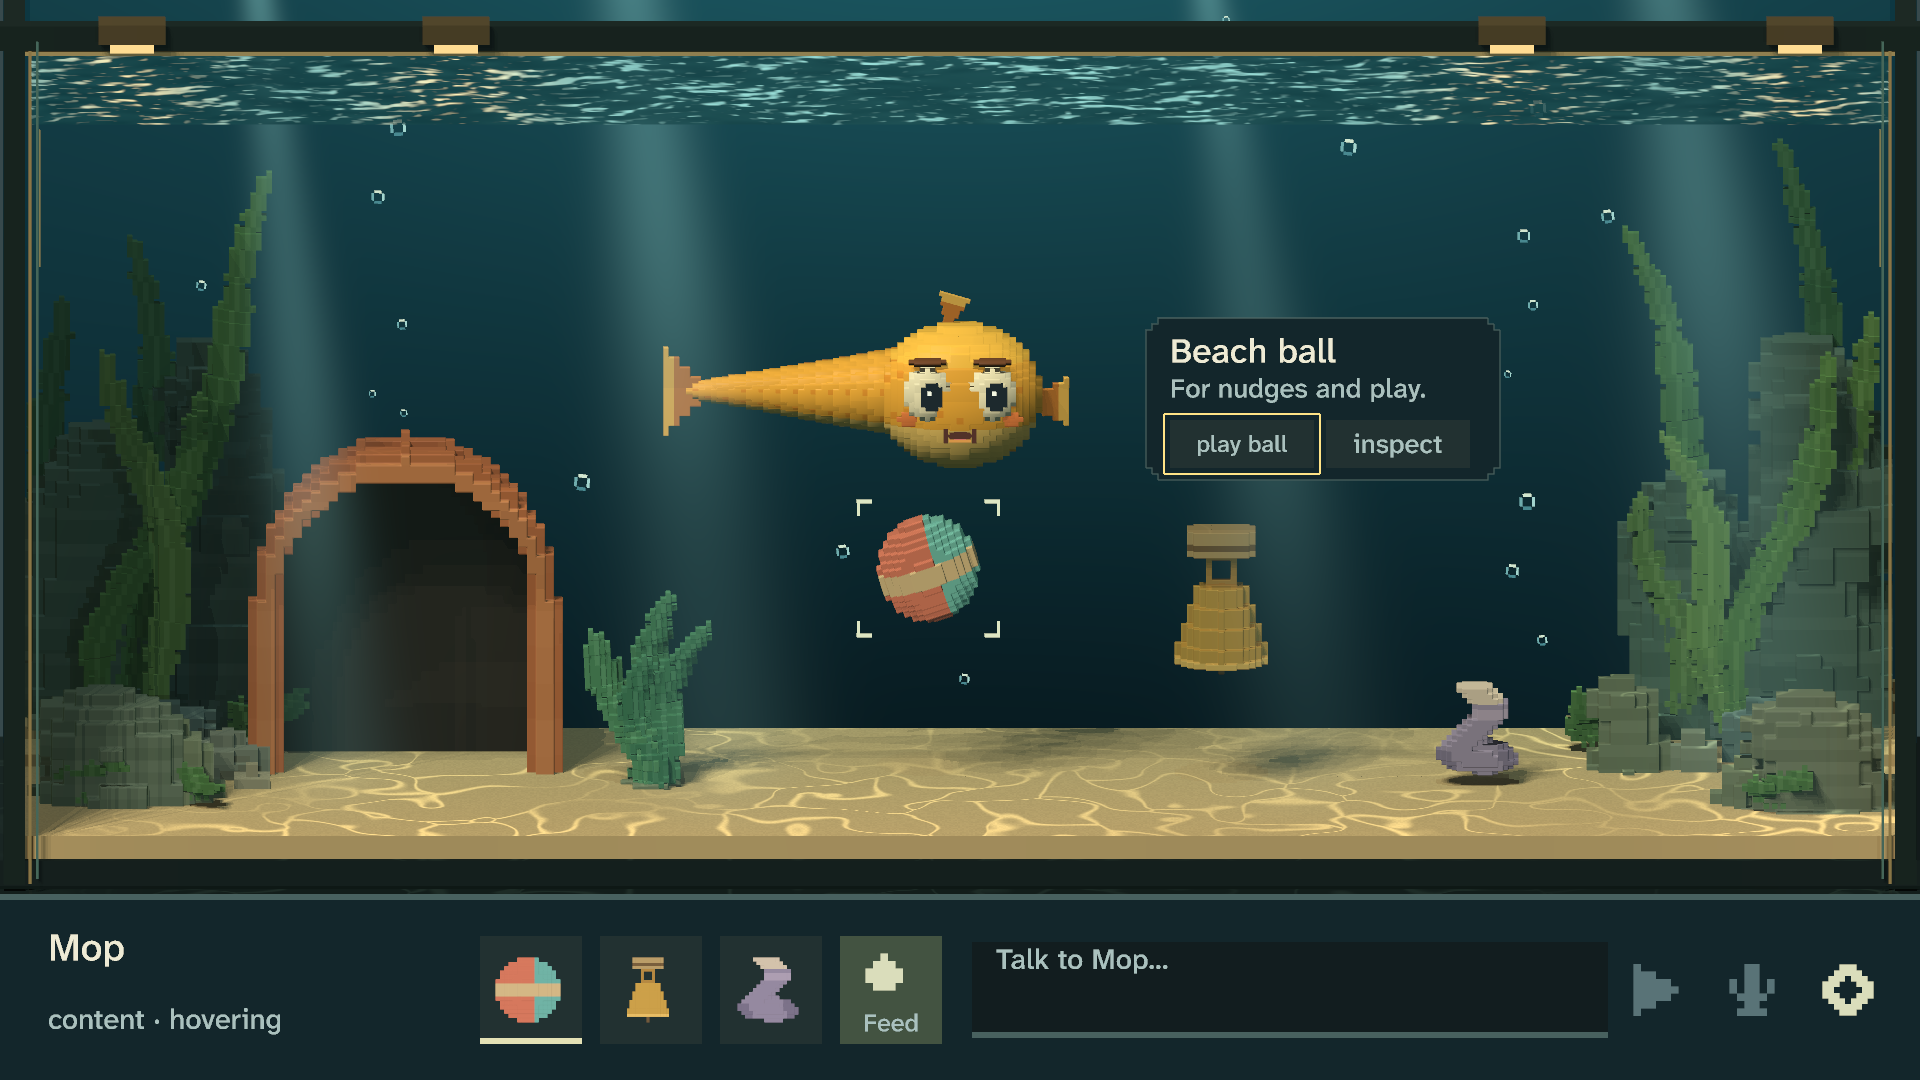
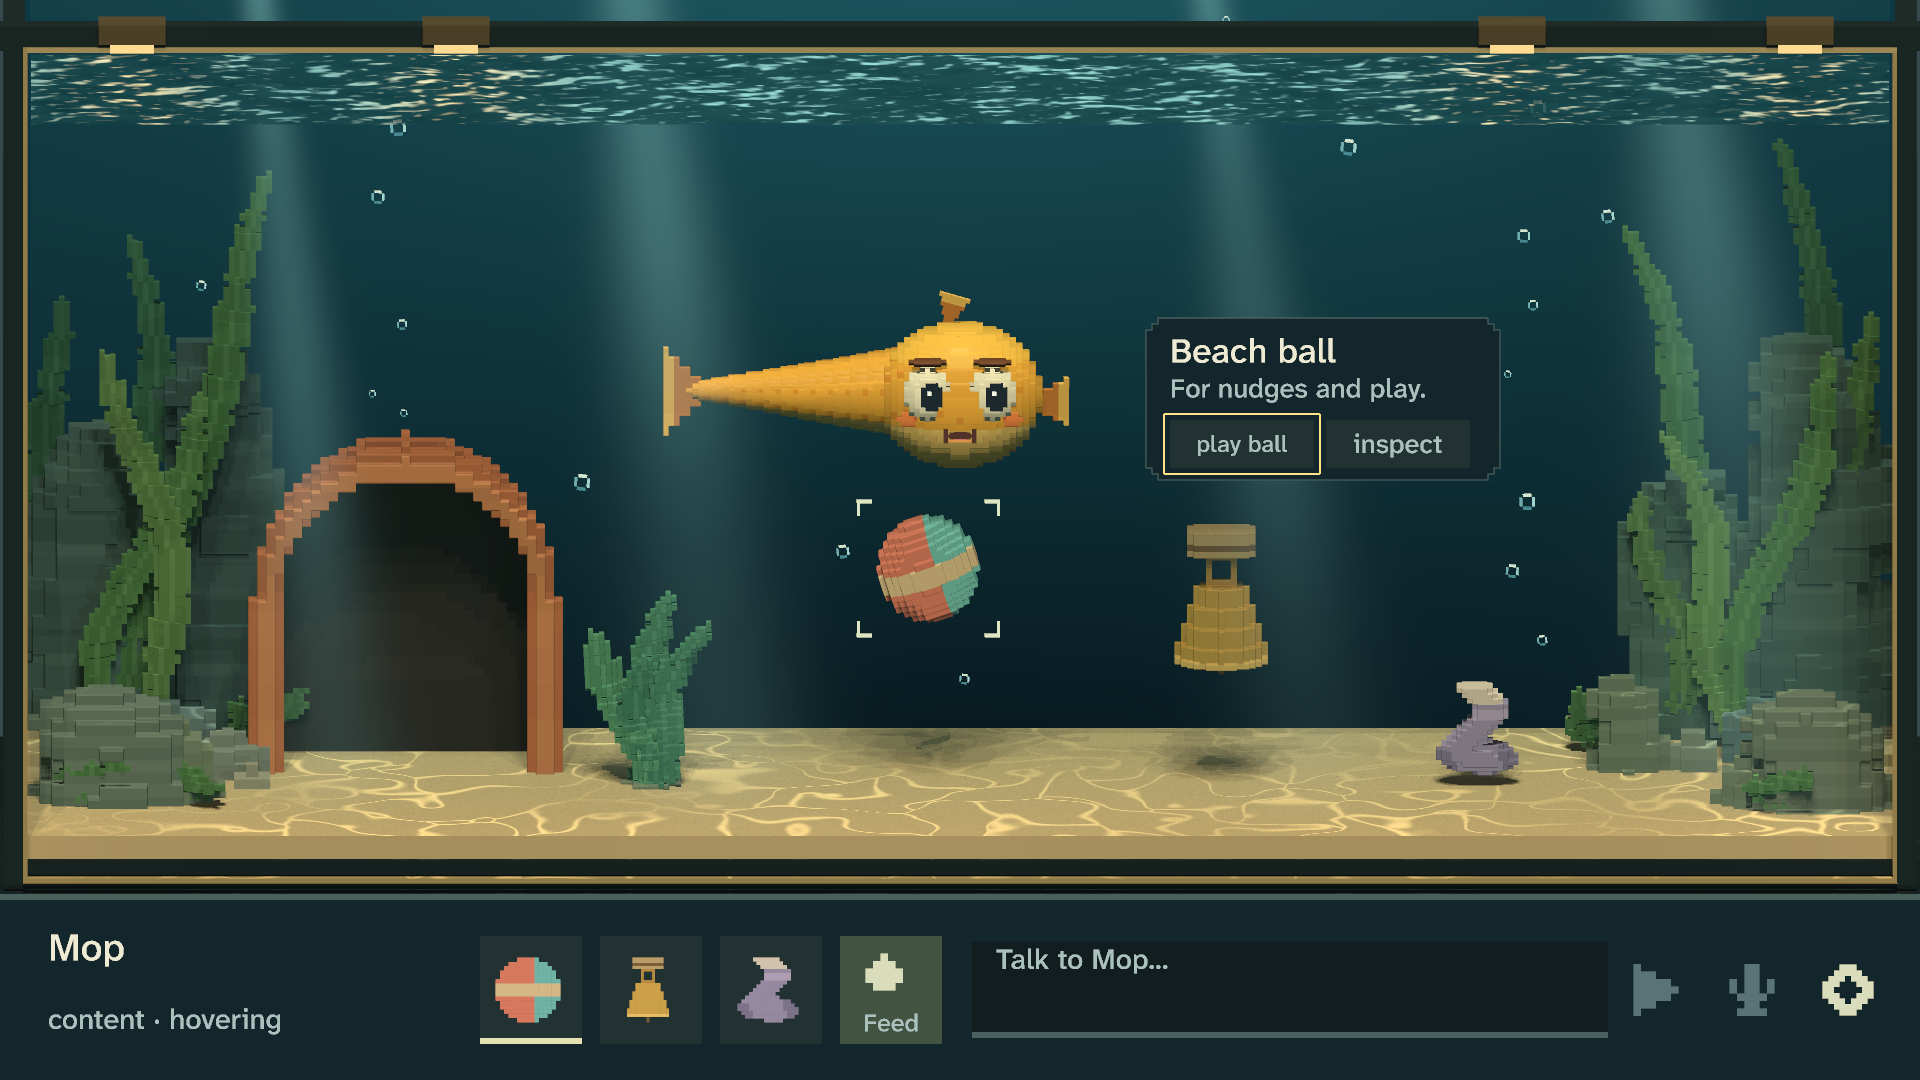
Clean up tank trim and balance overhead lighting

diff --git a/crates/beastie-game/src/environment.rs b/crates/beastie-game/src/environment.rs
@@ -130,21 +130,11 @@ pub(crate) fn setup(
             Vec3::new(0.18, 7.05, 4.7),
             TANK.frame,
         );
+        // One inset trim joins both rails, rather than floating parallel glint wires.
         tank.cuboid(
-            Vec3::new(side * 7.75, 1.30, 2.1),
-            Vec3::new(0.027, 7.05, 0.08),
+            Vec3::new(side * 7.79, 1.24, 2.20),
+            Vec3::new(0.04, 6.88, 0.08),
             TANK.brass,
-        );
-        // Thin inner edge glints suggest clear glass without an opaque front pane.
-        tank.cuboid(
-            Vec3::new(side * 7.69, 1.28, 2.20),
-            Vec3::new(0.018, 6.90, 0.025),
-            [89, 132, 124],
-        );
-        tank.cuboid(
-            Vec3::new(side * 7.67, 3.44, 2.22),
-            Vec3::new(0.014, 1.13, 0.022),
-            [164, 157, 110],
         );
     }
     tank.cuboid(
@@ -153,9 +143,14 @@ pub(crate) fn setup(
         TANK.frame,
     );
     tank.cuboid(
-        Vec3::new(0.0, 4.61, 2.1),
-        Vec3::new(15.65, 0.035, 0.07),
+        Vec3::new(0.0, 4.66, 2.20),
+        Vec3::new(15.62, 0.04, 0.08),
         shade(TANK.brass, 15),
+    );
+    tank.cuboid(
+        Vec3::new(0.0, -2.18, 2.20),
+        Vec3::new(15.62, 0.04, 0.08),
+        TANK.brass,
     );
     // A solid cabinet apron remains visible beneath the bed as the compact care
     // controls recede. It is part of the tank, so no empty background gap is exposed.

diff --git a/crates/beastie-game/src/renderer.rs b/crates/beastie-game/src/renderer.rs
@@ -286,7 +286,8 @@ fn setup(
         Transform::from_rotation(Quat::from_rotation_x(CAMERA_PITCH))
             .with_translation(Quat::from_rotation_x(CAMERA_PITCH) * Vec3::new(0.0, 0.0, 24.0)),
     ));
-    let frame_material = materials.add(appearance.material(0.38, 0.55));
+    // Brushed framing keeps reflected scenery from drawing sharp stray lines on the rails.
+    let frame_material = materials.add(appearance.material(0.72, 0.40));
     crate::environment::setup(
         &mut commands,
         &mut meshes,

diff --git a/docs/style-reference/refinement.md b/docs/style-reference/refinement.md
@@ -201,3 +201,25 @@ all seven markers, all 480 event records, all 504 audio records and authoritativ
 creature state at each marker match. Stills and filmstrips retain accepted composition,
 lighting, silhouettes and readable overlays. The final cache/code review found no
 outstanding correctness issue; the performance correction is accepted.
+
+## Tank-edge follow-up
+
+The user identified stray-looking border lines and an uneven left-edge shadow after
+the general fidelity review. Fresh 1920×1080 captures confirmed multiple parallel
+glint strips with disconnected endpoints. One joined brass rim now meets the top
+and bottom rails. A rougher, less metallic frame quiets the reflected scenery.
+The key light's horizontal component is now zero: the former leftward direction
+cast a broad shadow from the left tank wall across the plants and rocks. Water
+shafts retain their existing variation rather than becoming mechanically symmetric.
+
+Same-seed still comparisons are retained in `/tmp/beastie-edge-polish-before/captures`
+and `/tmp/beastie-edge-polish-pass2/captures`; `implemented/` contains refreshed
+gameplay, selection, settings Normal/Large and title images. The localized changes
+add no rays or gameplay behavior. Earlier timing reports describe the preceding
+refinement, not a new performance measurement of this follow-up.
+
+`cargo xtask verify` and the native fake-AI still scenario passed. A second,
+validated 1280×720 animated capture at `/tmp/beastie-edge-polish-final` retains
+clean edges across the sampled water, selection, settings and title states.
+Independent visual/code review found no regression in this bounded change.
+No new performance or cross-platform claim is made from these captures.

diff --git a/docs/STATE.md b/docs/STATE.md
@@ -9,6 +9,8 @@ Last updated: **2026-09-09**.
 - Gold-reference refinement is implemented and repeatedly reviewed. Permanent originals,
   before/after screenshots and capture commands remain in [style references](style-reference/README.md).
   The [refinement record](style-reference/refinement.md) explains accepted findings and limits.
+- Tank-edge follow-up joins the disconnected trim strips into one rim and centers the
+  overhead key, removing the heavy left-wall shadow. The frame uses a quieter brushed finish.
 - Water now has smaller broken highlights, varied caustic coverage and stronger soft shafts.
   Contact darkening, warm practical fill, curved fronds, eroded rock courses, a rounded cave
   and restrained glass edges give the tank more depth.
